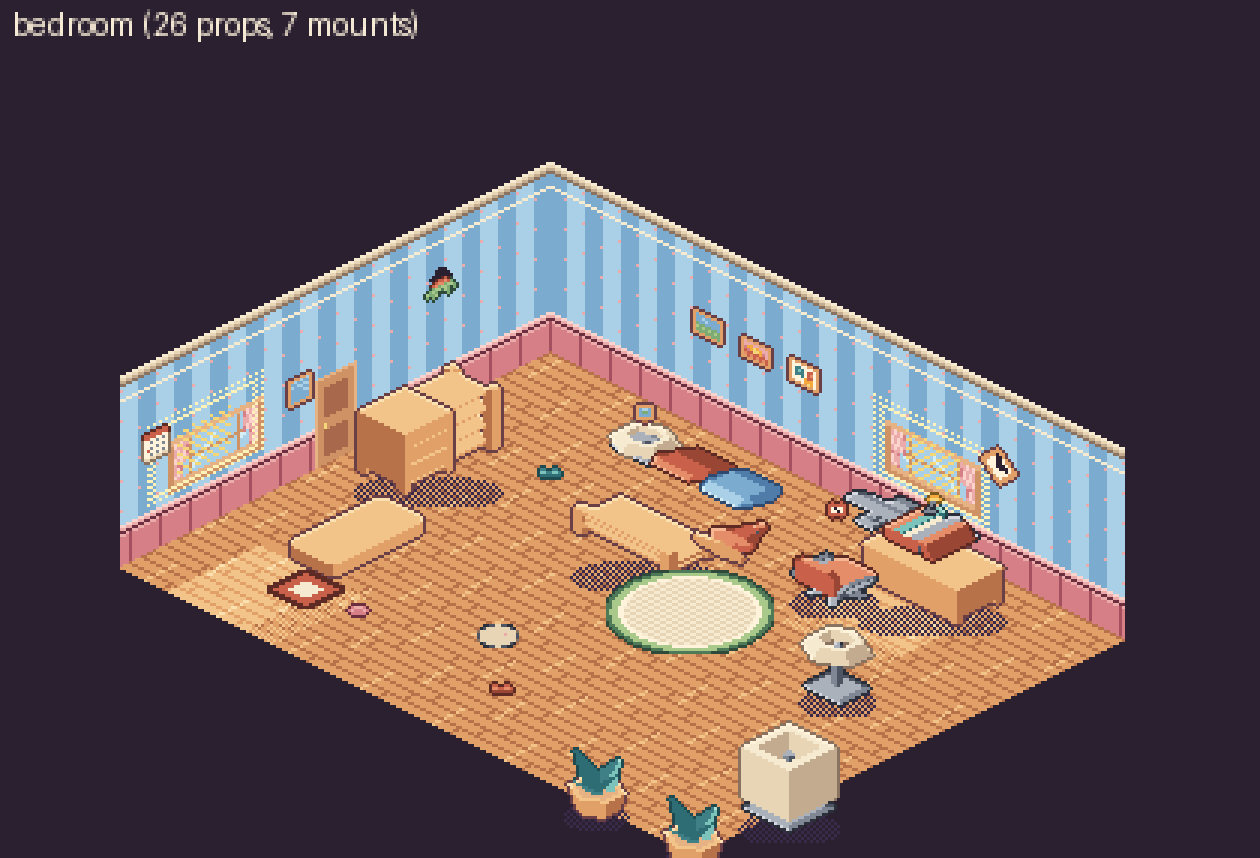
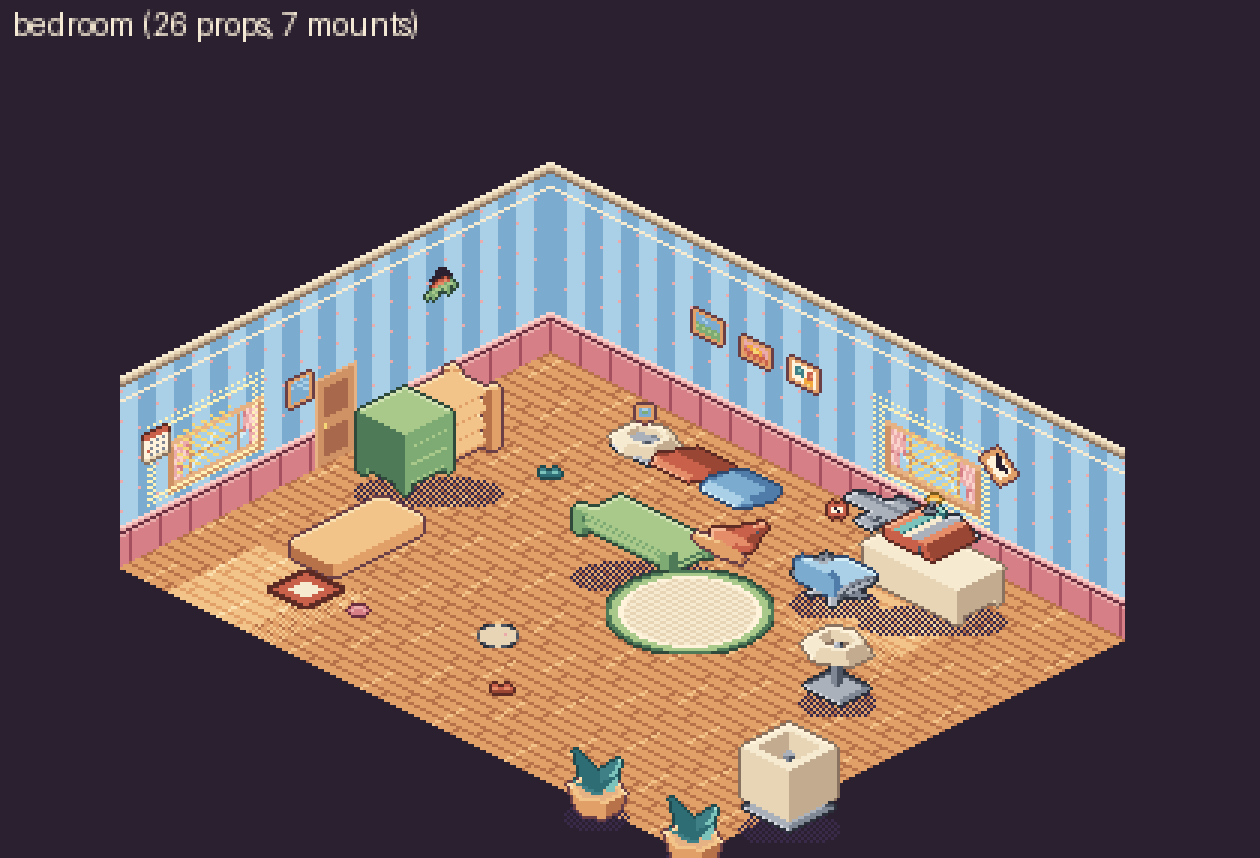
AI-4: furniture colour identities via ramp overrides (audit item 2, partial)

Changed region(s): [[0.619, 0.6061, 0.8048, 0.7273], [0.2786, 0.4545, 0.3714, 0.5758], [0.4333, 0.5758, 0.5881, 0.6667]]

diff --git a/docs/status/AI-4.md b/docs/status/AI-4.md
@@ -16,6 +16,7 @@
 - Task 7 FX: 3 pixel frames for each of the 16 FxNames (`fx/<name>/0..2`, tiny, pale and tintable; coin and buy gold), in the core atlas; source tools/pixelart/fx.py. src/fx/layer.ts now plays them when all three frames are in the manifest and the atlas is loaded (frame advances 0,1,2 over the particle's life at fixed ART_PX scale, no fractional scale or rotation), else falls back to the old procedural textures. Particle caps unchanged (MAX_PARTICLES 60 pool, spec counts untouched). No wiring needed from AI-3 beyond playFx calls that already exist.
 - Task 8 boot cost: `generateAllTextures` no longer bakes the five 1280x720 legacy room backgrounds (the most expensive canvases; 4.6 M px of vector drawing). New `ensureRoomTexture(scene, id)` and `ensureAllRoomTextures(scene)` in src/art/index.ts bake them on first use, idempotent, no-op for non-legacy ids. Called from RoomView.build and OrganiseScene.create (one line each, files owned by others, changed because they would otherwise show a missing texture). A Home boot now skips them entirely. Remaining boot bakes (spots, items, icons, decor, iso kit) are untouched: they are the fallbacks the atlas art still covers.
 - Manager audit items: (5) slab frames `prop/slabEdgeL`, `prop/slabEdgeR` (one 16 px step, 6 px thick, honey trim with ink outline) and `prop/slabShadow` (32x16 dithered shade diamond) in the house atlas; tile the edges every 16 px along the front edges, shadow under the slab. Source tools/pixelart/slab.py. 3x evidence: docs/art/evidence/art-living-3x.png and art-bedroom-3x.png. Not done: audit item 2 (furniture still reads as blobs at Overview size; needs per-piece silhouette and tone work).
+- Audit item 2 (furniture blobs), partial: colour identity only. 14 furniture kinds re-rendered with per-material ramp overrides in tools/render3d/models.json (`ramps`): sofa teal, lounge chair rose, bar stool sage, desk chair sky, bench and bookcaseClosed and sideTableDrawers and kitchen cabinets/bar sage, dining chair/desk/sideTable cream (plaster), TV unit and speaker slate; wood-only pieces (coffee table, round table, open bookcase, coat rack) stay honey. Only those 14 PNGs were replaced (pivots verified identical); re-render with `python3 tools/render3d/render.py <spec> <Kenney OBJ dir> <out>` then copy. Silhouettes are still the Kenney boxes: arms, legs and cushion splits are not redrawn.
 ## Verified
 - `python3 tools/check-frames/check.py assets/frames/room-slice --max 96` -> "141 files, 0 problems".
 - `npm run art:sheet` -> "missing frames: none"; rugs checked by eye in docs/art/evidence/art-sheet.png; bed frames checked enlarged in isolation only (art-sheet does not draw spots).
